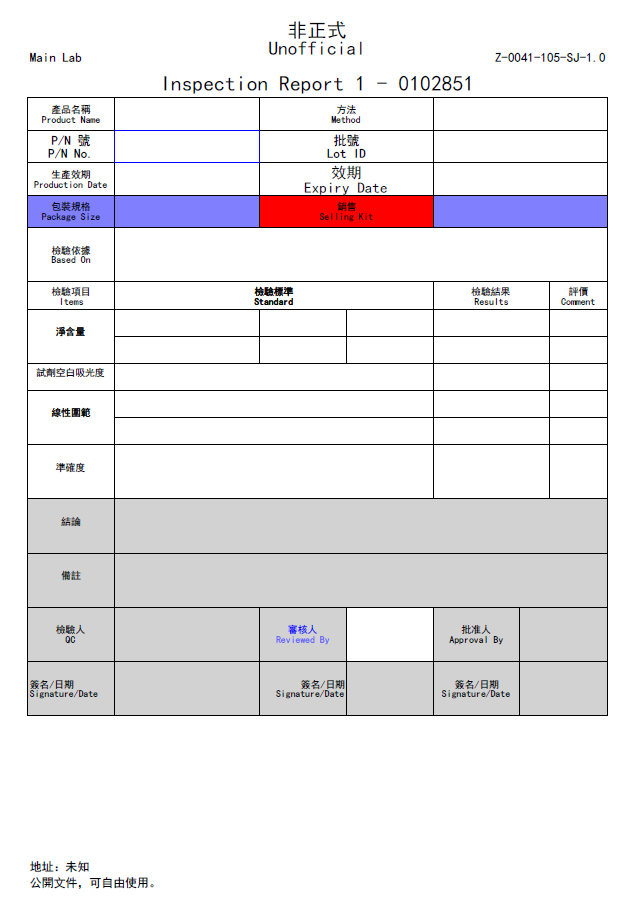
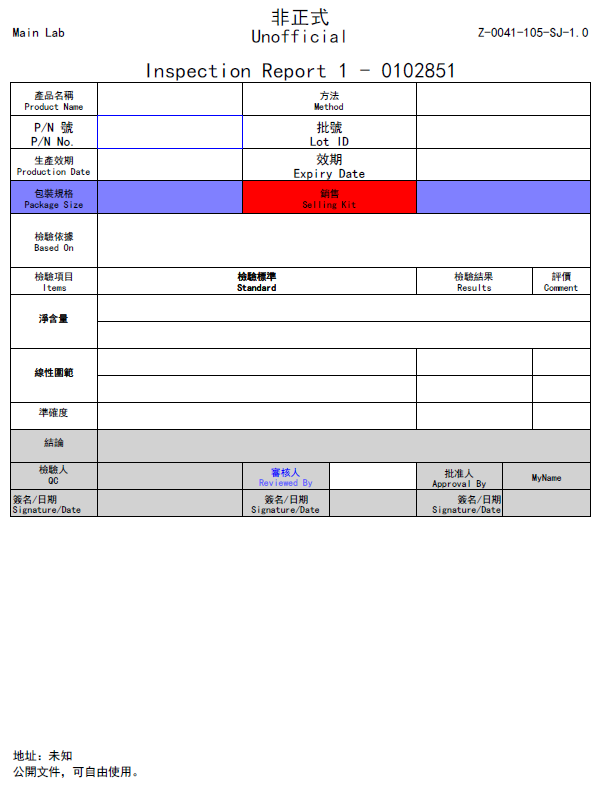
README

Changed region(s): [[0.0, 0.0, 0.9867, 0.7939], [0.0, 0.9466, 0.2392, 1.0]]

diff --git a/design_tw_gridbag.md b/design_tw_gridbag.md
@@ -13,7 +13,7 @@ GridBagView
 		<rows>
 			<row height="100%">
 				<bindCell fontSize="20">
-					<id>titleInfo</id>
+					<bind>titleInfo</bind>
 				</bindCell>
 			</row>
 		</rows>
@@ -31,12 +31,12 @@ GridBagView
 					<text>產品名稱</text>
 					<subtext>Product Name</subtext>
 				</textCell>
-				<textCell></textCell>
+				<bindCell><bind></bind></bindCell>
 				<textCell>
 					<text>方法</text>
 					<subtext>Method</subtext>
 				</textCell>
-				<textCell></textCell>
+				<bindCell><bind></bind></bindCell>
 			</row>
 			<row height="30" fontSize="12">
 				<textCell>
@@ -48,42 +48,42 @@ GridBagView
 					<text>批號</text>
 					<subtext>Lot ID</subtext>
 				</textCell>
-				<textCell></textCell>
+				<bindCell><bind></bind></bindCell>
 			</row>
 			<row height="30">
 				<textCell>
 					<text>生產效期</text>
 					<subtext>Production Date</subtext>
 				</textCell>
-				<textCell></textCell>
-				<textCell fontSize="14">
+				<bindCell><bind></bind></bindCell>
+				<textCell fontSize="12">
 					<text>效期</text>
 					<subtext>Expiry Date</subtext>
 				</textCell>
-				<textCell></textCell>
+				<bindCell><bind></bind></bindCell>
 			</row>
 			<row height="30" background="128,128,255">
 				<textCell>
 					<text>包裝規格</text>
 					<subtext>Package Size</subtext>
 				</textCell>
-				<textCell></textCell>
+				<bindCell><bind></bind></bindCell>
 				<textCell background="255,0,0">
 					<text>銷售</text>
 					<subtext>Selling Kit</subtext>
 				</textCell>
-				<textCell></textCell>
+				<bindCell><bind></bind></bindCell>
 			</row>
 			<row height="+100%">
 				<textCell>
 					<text>檢驗依據</text>
 					<subtext>Based On</subtext>
 				</textCell>
-				<textCell colspan="3"></textCell>
+				<bindCell colspan="3"><bind></bind></bindCell>
 			</row>
 		</rows>
 	</gridbag>
-	<gridbag name="inspection" x="0" y="+" width="100%" height="200">
+	<gridbag name="inspection" x="0" y="+" width="100%" height="150">
 		<columns>
 			<column width="15%"></column>
 			<column width="@40%"></column>
@@ -116,27 +116,10 @@ GridBagView
 					<text>淨含量</text>
 					<subtext></subtext>
 				</textCell>
-				<textCell></textCell>
-				<textCell></textCell>
-				<textCell></textCell>
-				<textCell></textCell>
-				<textCell></textCell>
+				<bindCell colspan="5"><bind></bind></bindCell>
 			</row>
 			<row height="25">
-				<textCell></textCell>
-				<textCell></textCell>
-				<textCell></textCell>
-				<textCell></textCell>
-				<textCell></textCell>
-			</row>
-			<row height="25">
-				<textCell>
-					<text>試劑空白吸光度</text>
-					<subtext></subtext>
-				</textCell>
-				<textCell colspan="3"></textCell>
-				<textCell></textCell>
-				<textCell></textCell>
+				<bindCell colspan="5"><bind></bind></bindCell>
 			</row>
 			<row height="25">
 				<textCell rowspan="2">
@@ -144,26 +127,32 @@ GridBagView
 					<subtext></subtext>
 				</textCell>
 				<textCell colspan="3"></textCell>
-				<textCell></textCell>
-				<textCell></textCell>
+				<bindCell><bind></bind></bindCell>
+				<bindCell><bind></bind></bindCell>
 			</row>
 			<row height="25">
 				<textCell colspan="3"></textCell>
-				<textCell></textCell>
-				<textCell></textCell>
+				<bindCell><bind></bind></bindCell>
+				<bindCell><bind></bind></bindCell>
 			</row>
-			<row height="+100%">
+			<row height="25">
 				<textCell>
 					<text>準確度</text>
 					<subtext></subtext>
 				</textCell>
 				<textCell colspan="3"></textCell>
-				<textCell></textCell>
-				<textCell></textCell>
+				<bindCell><bind></bind></bindCell>
+				<bindCell><bind></bind></bindCell>
 			</row>
 		</rows>
 	</gridbag>
-	<gridbag name="result" x="0" y="+" width="100%" height="200" background="210,210,210">
+	<gridbag
+			name="result"
+			 x="0" y="+"
+			 width="100%"
+			 height="80"
+			 background="210,210,210"
+			 bind="result">
 		<columns>
 			<column width="15%"></column>
 			<column width="@40%"></column>
@@ -173,53 +162,46 @@ GridBagView
 			<column width="+100%"></column>
 		</columns>
 		<rows>
-			<row height="25%">
+			<row height="30">
 				<textCell>
 					<text>結論</text>
 					<subtext></subtext>
 				</textCell>
-				<textCell colspan="5"></textCell>
+				<bindCell colspan="5"><bind></bind></bindCell>
 			</row>
-			<row height="25%">
-				<textCell>
-					<text>備註</text>
-					<subtext></subtext>
-				</textCell>
-				<textCell colspan="5"></textCell>
-			</row>
-			<row height="25%">
-				<textCell>
+			<row height="25">
+				<textCell valignment="NEAR">
 					<text>檢驗人</text>
 					<subtext>QC</subtext>
 				</textCell>
-				<textCell></textCell>
+				<bindCell><bind></bind></bindCell>
 				<textCell>
 					<text foreground="0,0,255">審核人</text>
 					<subtext foreground="100,100,255">Reviewed By</subtext>
 				</textCell>
-				<textCell background="255,255,255"></textCell>
-				<textCell>
+				<bindCell background="255,255,255"><bind></bind></bindCell>
+				<textCell valignment="FAR">
 					<text>批准人</text>
 					<subtext>Approval By</subtext>
 				</textCell>
-				<textCell></textCell>
+				<bindCell><bind>approver</bind></bindCell>
 			</row>
 			<row height="+100%">
 				<textCell alignment="NEAR">
 					<text>簽名/日期</text>
 					<subtext>Signature/Date</subtext>
 				</textCell>
-				<textCell></textCell>
-				<textCell alignment="FAR">
-					<text>簽名/日期</text>
-					<subtext>Signature/Date</subtext>
-				</textCell>
-				<textCell></textCell>
+				<bindCell><bind></bind></bindCell>
 				<textCell>
 					<text>簽名/日期</text>
 					<subtext>Signature/Date</subtext>
 				</textCell>
-				<textCell></textCell>
+				<bindCell><bind></bind></bindCell>
+				<textCell alignment="FAR">
+					<text>簽名/日期</text>
+					<subtext>Signature/Date</subtext>
+				</textCell>
+				<bindCell><bind></bind></bindCell>
 			</row>
 		</rows>
 	</gridbag>
@@ -229,7 +211,7 @@ GridBagView
 ## 說明
 
 ### <gridbag\>
-||Element|Description|Multi|
+||Element|Description|multiple|
 |:--:|--|--|--|
 |v|columns|Column 集合|1|
 |v|rows|Row 集合|1|
@@ -244,11 +226,12 @@ GridBagView
 ||borderEnabled|boolean|是否顯示邊框|true|
 ||borderSize|float|邊框寬度|1.0|
 ||borderColor|string|邊框顏色 (R,G,B)|0,0,0|
+||bind|string|資料聯繫名稱|-|
 ||background|string|背景色|-|
 ||fontSize|int|字型大小|9|
 
 ### <columns\>
-||Element|Description|Multi|
+||Element|Description|multiple|
 |:--:|--|--|--|
 |v|column|Column|1..*|
 
@@ -259,14 +242,16 @@ GridBagView
 
 
 ### <rows\>
-||Element|Description|Multi|
+||Element|Description|multiple|
 |:--:|--|--|--|
 |v|row|Row|1..*|
 
 ### <row\>
-||Element|Description|Multi|
+||Element|Description|multiple|
 |:--:|--|--|--|
 |v|textCell|文字內容|1..*|
+|v|bindCell|資料聯繫內容|1..*|
+|v|imageCell|影像內容|1..*|
 
 ||Attribute|Type|Description|Default|
 |:--:|--|--|--|--|
@@ -275,11 +260,11 @@ GridBagView
 ||borderColor|string|邊框顏色 (R,G,B)|-|
 ||background|string|背景色|-|
 ||fontSize|int|字型大小|-|
-||alignment|string|字型大小|CENTER|
-||valignment|string|字型大小|CENTER|
+||alignment|string|水平對齊方式|CENTER|
+||valignment|string|垂直對齊方式|CENTER|
 
 ### <textCell\>
-||Element|Description|Multi|
+||Element|Description|multiple|
 |:--:|--|--|--|
 ||text|主要內容|0..1|
 ||subtext|次要內容|0..1|
@@ -292,5 +277,40 @@ GridBagView
 ||borderColor|string|邊框顏色 (R,G,B)|-|
 ||background|string|背景色|-|
 ||fontSize|int|字型大小|-|
-||alignment|string|字型大小|CENTER|
-||valignment|string|字型大小|CENTER|
+||alignment|string|水平對齊方式|CENTER|
+||valignment|string|垂直對齊方式|CENTER|
+
+
+### <bindCell\>
+||Element|Description|multiple|
+|:--:|--|--|--|
+|v|bind|資料聯繫名稱|1|
+||renderer|資料渲染介面|1|
+
+||Attribute|Type|Description|Default|
+|:--:|--|--|--|--|
+||colspan|int|跨欄數|1|
+||rowspan|int|跨行數|1|
+||borderSize|float|邊框寬度|0.5|
+||borderColor|string|邊框顏色 (R,G,B)|-|
+||background|string|背景色|-|
+||fontSize|int|字型大小|-|
+||alignment|string|水平對齊方式|CENTER|
+||valignment|string|垂直對齊方式|CENTER|
+
+
+### <imageCell\>
+||Element|Description|multiple|
+|:--:|--|--|--|
+||url|檔案位置|1|
+
+||Attribute|Type|Description|Default|
+|:--:|--|--|--|--|
+||colspan|int|跨欄數|1|
+||rowspan|int|跨行數|1|
+||borderSize|float|邊框寬度|0.5|
+||borderColor|string|邊框顏色 (R,G,B)|-|
+||background|string|背景色|-|
+||fontSize|int|字型大小|-|
+||alignment|string|水平對齊方式|CENTER|
+||valignment|string|垂直對齊方式|CENTER|

diff --git a/readme.md b/readme.md
@@ -38,15 +38,15 @@ Source code: __uia.pdf.GridViewTest__
 // 1. load layouts for a document
 GridViewFactory factory1 = GridViewFactory.fromXml("sample/grid/layout.xml");
 
-// 2. prepare header and footer
-SimpleHeaderView header = new SimpleHeaderView("UIA4J", 20);
-SimpleFooterView footer = new SimpleFooterView("UIA4J-0920", "2018-09-20", 11);
+// 2. new a pdf
+PDFDoc pdf = new PDFDoc(FontUtils.traditional());
 
-// 3. new a pdf
-PDFMaker pdf = new PDFMaker(FontUtils.traditional());
+// 3. prepare header and footer
+SimpleHeaderView header = new SimpleHeaderView(pdf, "UIA4J", 20);
+SimpleFooterView footer = new SimpleFooterView(pdf, "UIA4J-0920", "2018-09-20", 11);
 
 // 4. add data
-GridView view = factory1.mainView(pdf, Paper.A4L, "employee");
+GridView view = factory1.mainView(pdf, Paper.A4L.paddingLR(100, 100), "employee");
 view.setHeaderView(header);
 view.setFooterView(footer);
 view.draw(SampleEmployee.create(), "Employee List", true);
@@ -69,15 +69,15 @@ Source code: __uia.pdf.GridBagViewTest__
 GridBagFactory factory1 = GridBagFactory.fromXml("sample/gridbag/layout_header_footer.xml");
 GridBagFactory factory2 = GridBagFactory.fromXml("sample/gridbag/layout.xml");
 
-// 2. header & footer
-GridBagDescriptionView header = factory1.descView("header");
-GridBagDescriptionView footer = factory1.descView("footer");
+// 2. new a PDF
+PDFDoc pdf = new PDFDoc(FontUtils.simplified());
 
-// 3. new a pdf
-PDFMaker pdf = new PDFMaker(FontUtils.simplified());
+// 3. header & footer
+GridBagDescriptionView header = factory1.descView(pdf, "header");
+GridBagDescriptionView footer = factory1.descView(pdf, "footer");
 
 // 4 A4
-GridBagView cv1 = factory2.mainView(pdf, Paper.A4);
+GridBagView cv1 = factory2.mainView(pdf, Paper.A4.paddingTB(100, 100));
 cv1.setHeaderView(header);
 cv1.setFooterView(footer);
 cv1.addPage(prepareData1(), "Inspection Report 1", false);

diff --git a/design_tw_grid.md b/design_tw_grid.md
@@ -35,7 +35,7 @@ GridView
 ```
 ## 說明
 ### <grid\>
-||Element|Description|Multi|
+||Element|Description|multiple|
 |:--:|--|--|--|
 |v|columns|欄位集合|1|
 
@@ -44,7 +44,7 @@ GridView
 |v|name|string|名稱|-|
 
 ### <columns\>
-||Element|Description|Multi|
+||Element|Description|multiple|
 |:--:|--|--|--|
 |v|column|欄位|1..*|
 
@@ -54,7 +54,7 @@ GridView
 ||visible|boolean|表頭是否顯示|true|
 
 ### <column\>
-||Element|Description|Multi|
+||Element|Description|multiple|
 |:--:|--|--|--|
 |v|text|表頭文字|-|
 
@@ -63,5 +63,5 @@ GridView
 |v|width|string|欄寬|-|
 |v|bind|string|聯繫欄位|-|
 ||alignment|string|水平對齊方式 (NEAR, CENTER, FAR)|CENTER|
-||wrap|string|自動換行|false|
-||cellRenderer|string|資料渲染類別<br> 實作 uia.pdf.grid.CellRenderer 或是<br>繼承 uia.pdf.grid.DefaultCellRenderer|-|
+||wrap|boolean|自動換行|false|
+||cellRenderer|string|資料渲染介面<br> 實作 uia.pdf.grid.CellRenderer 或是<br>繼承 uia.pdf.grid.DefaultCellRenderer|-|
